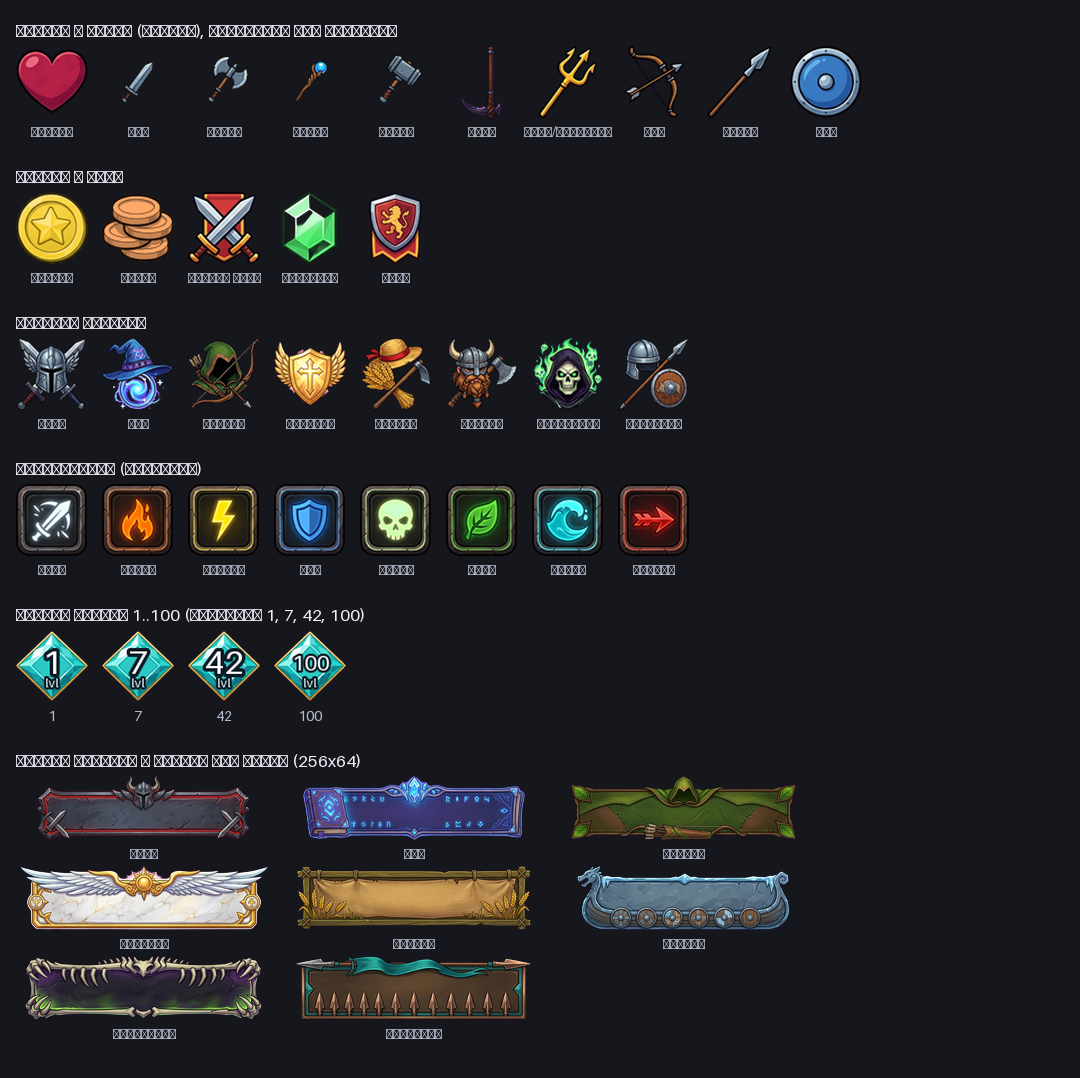
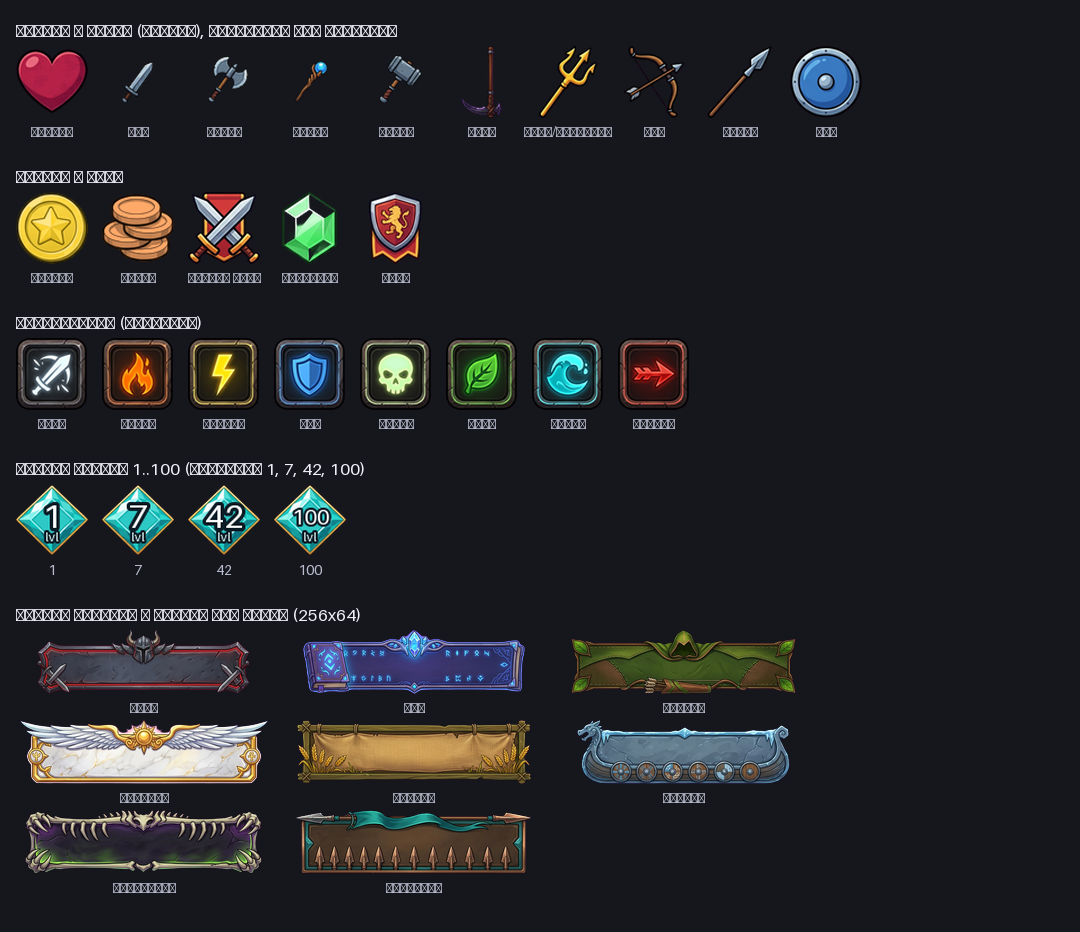
Удалены эмблемы классов: класс читается по панели

diff --git a/tools/build_icons_preview.py b/tools/build_icons_preview.py
@@ -40,11 +40,6 @@ GROUPS: list[tuple[str, list[tuple[str, str]] | None]] = [
         ("боевые очки", "battle_points"), ("нанагемы", "nanogem"),
         ("клан", "clan"),
     ]),
-    ("Эмблемы классов", [
-        ("воин", "warrior"), ("маг", "mage"), ("лучник", "archer"),
-        ("паладин", "paladin"), ("фермер", "farmer"), ("викинг", "viking"),
-        ("некромант", "necromancer"), ("копейщик", "spearman"),
-    ]),
     ("Способности (заглушки)", [
         ("удар", "ability_slash"), ("огонь", "ability_flame"),
         ("молния", "ability_bolt"), ("щит", "ability_shield"),
